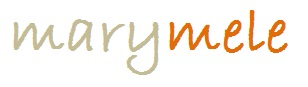
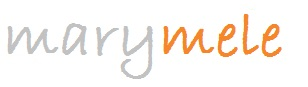
9th Update

Changed region(s): [[0.0, 0.1149, 0.9351, 0.9195]]

diff --git a/index.html b/index.html
@@ -6,13 +6,16 @@
     <title>Meron</title>
     <link rel="icon" href="./image/mm.jpg">
 </head>
-<body  text="#cccccc">
-    <table width="100%">
+<body  text="#999999">
+    <table width="100%" cellspacing="20px">
         <tr>
           <td width="30%"><table width="100%" >
             <tr>
                 <td><img src="./image/marymele.jpg" height="74">&nbsp;</td>
-              </tr>  
+            </tr>  
+              <tr>
+                <td height="46">&nbsp;</td>
+              </tr>
               <tr>
                 <td><a href="nature.html">Nature</a>&nbsp;</td>
               </tr>
@@ -34,7 +37,7 @@
                 <td><a href="contact.html">Contact</a>&nbsp;</td>
               </tr>
           </table>
-            <table width="101%" height="281" >
+            <table width="100%" height="344" >
               <tr>
                 <td height="275">&nbsp;</td>
               </tr>
@@ -43,12 +46,12 @@
                 <tr>
                   <td height="63"><p>Developed by marymele &copy;</p>&nbsp;</td>
                 </tr>
-              </table>     
+            </table>     
             <p>&nbsp;</p></td>
           <td width="70%"><table width="100%" >
             <tr>
-              <td width="37%"><img src="./image/smile.jpg" alt="profile">&nbsp;</td>
-              <td width="63%"><table width="100%" align="center">
+              <td width="37%"><img src="./image/profile2.jpg" alt="profile" width="405" height="374">&nbsp;</td>
+              <td width="63%"><table width="100%" >
                 <tr>
                     <td height="55"><a href="se.meron.melese@gmail.com">se.meron.melese@gmail.com</a>&nbsp;</td>
                 </tr>
@@ -61,12 +64,11 @@
             <table width="100%" >
               <tr>
                 <td>
-                      <p>Hey. My name is Meron and I’m a software student at 
+                      <p align="center">Hey. My name is Meron and I’m a software student at 
                           Addis Ababa institute of Technology. I’m currently 
                           at my sophomore year at the university and 
-                          it has been a privilege so far.
-                      </p>
-                      <p>Lorem ipsum dolor sit amet consectetur adipisicing elit. 
+                          it has been a privilege so far.                      </p>
+                      <p align="center">Lorem ipsum dolor sit amet consectetur adipisicing elit. 
                           Quo neque dolore, maxime voluptatum vel magnam illum
                           perferendis rem eaque quos ad architecto adipisci! 
                           Non quasi voluptatem officiis quis, mollitia esse.</p>

diff --git a/nature.html b/nature.html
@@ -6,13 +6,16 @@
     <title>Nature</title>
     <link rel="icon" href="./image/mm.jpg">
 </head>
-<body text="#cccccc">
-    <table width="100%">
+<body text="#999999">
+    <table width="100%" cellspacing="20px">
         <tr>
           <td width="30%"><table width="100%" >
             <tr>
                 <td><img src="./image/marymele.jpg" height="74">&nbsp;</td>
               </tr>  
+              <tr>
+                <td height="46">&nbsp;</td>
+              </tr>
               <tr>
                 <td><a href="nature.html">Nature</a>&nbsp;</td>
               </tr>

diff --git a/art.html b/art.html
@@ -6,13 +6,16 @@
     <title>Art</title>
     <link rel="icon" href="./image/mm.jpg">
 </head>
-<body  text="#cccccc">
-    <table width="100%">
+<body  text="#999999">
+    <table width="100%" cellspacing="20px">
         <tr>
           <td width="30%"><table width="100%" >
             <tr>
                 <td><img src="./image/marymele.jpg" height="74">&nbsp;</td>
               </tr>  
+              <tr>
+                <td height="46">&nbsp;</td>
+              </tr>
               <tr>
                 <td><a href="nature.html">Nature</a>&nbsp;</td>
               </tr>

diff --git a/sports.html b/sports.html
@@ -6,13 +6,16 @@
     <title>Sports</title>
     <link rel="icon" href="./image/mm.jpg">
 </head>
-<body  text="#cccccc">
-    <table width="100%">
+<body  text="#999999">
+    <table width="100%" cellspacing="20px">
         <tr>
           <td width="30%"><table width="100%" >
             <tr>
               <td><img src="./image/marymele.jpg" height="74">&nbsp;</td>
             </tr>  
+            <tr>
+                <td height="46">&nbsp;</td>
+              </tr>
             <tr>
               <td><a href="nature.html">Nature</a>&nbsp;</td>
             </tr>

diff --git a/contact.html b/contact.html
@@ -7,12 +7,16 @@
     <link rel="icon" href="./image/mm.jpg"><table width="100%">
         
 </head>
-<body  text="#cccccc">
+<body  text="#999999">
+    <table  width="100%" cellspacing="20px">
     <tr>
         <td width="30%"><table width="100%" >
           <tr>
               <td><img src="./image/marymele.jpg" height="74">&nbsp;</td>
             </tr>  
+            <tr>
+                <td height="46">&nbsp;</td>
+              </tr>
             <tr>
               <td><a href="nature.html">Nature</a>&nbsp;</td>
             </tr>

diff --git a/quotes.html b/quotes.html
@@ -7,12 +7,16 @@
     <link rel="icon" href="./image/mm.jpg"><table width="100%">
         
 </head>
-<body text="#cccccc">
+<body text="#999999">
+    <table  width="100%" cellspacing="20px">
     <tr>
         <td width="30%"><table width="100%" >
           <tr>
               <td><img src="./image/marymele.jpg" height="74">&nbsp;</td>
             </tr>  
+            <tr>
+                <td height="46">&nbsp;</td>
+              </tr>
             <tr>
               <td><a href="nature.html">Nature</a>&nbsp;</td>
             </tr>
